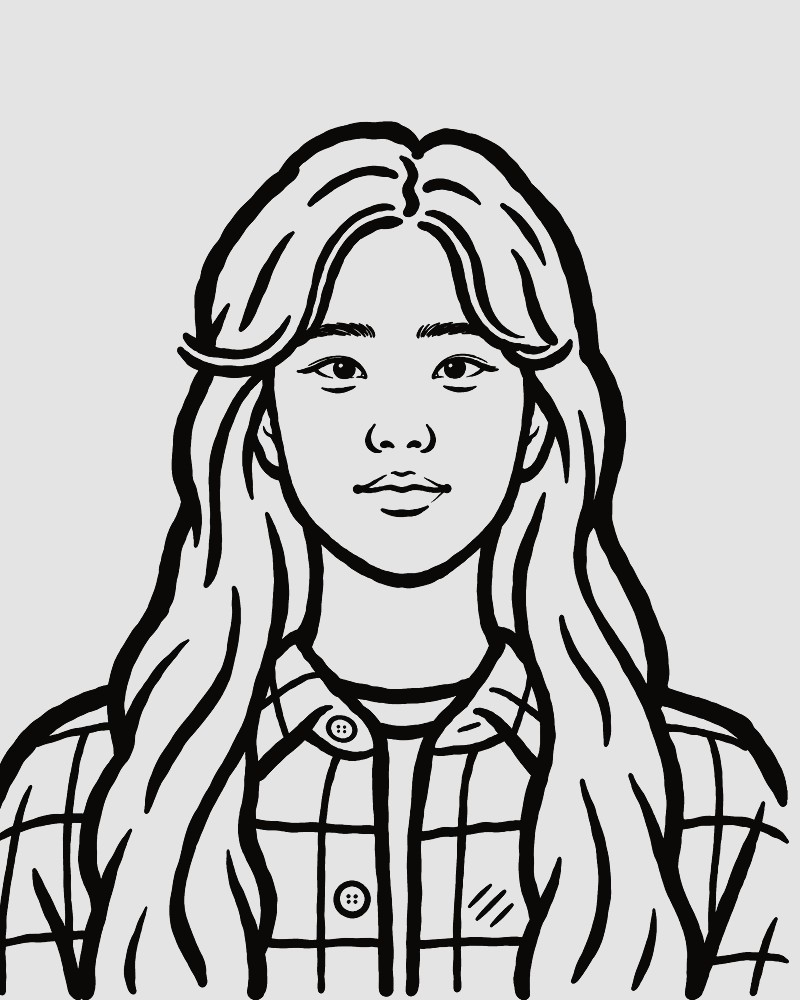
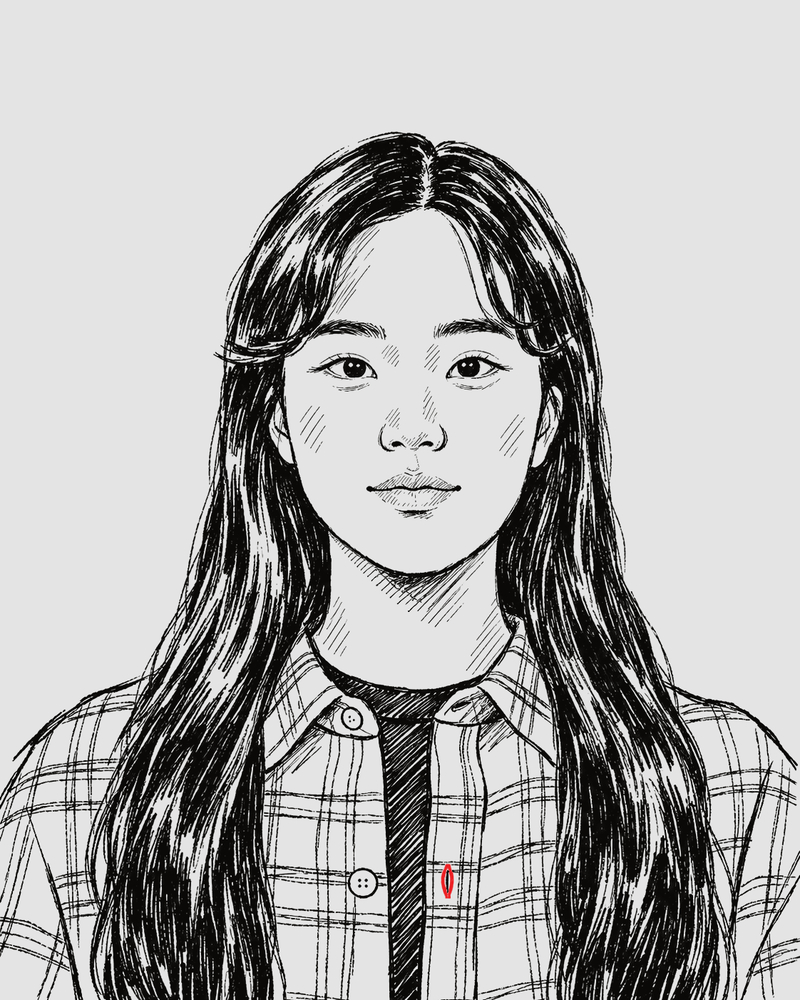
Revert "feat(members): portraits as pen-and-ink line drawings"
This reverts commit ca13e187ffa0a8153afcae8aac285b62a9c8bac9.

diff --git a/src/features/members/components/MemberCrew.tsx b/src/features/members/components/MemberCrew.tsx
@@ -44,7 +44,7 @@ function Portrait({ m, sizes, className = "" }: { m: CrewMember; sizes: string; 
       {m.portrait ? (
         // Loaded with the page, not lazily: in Safari a lazily loaded portrait could vanish after a
         // reload, while the page's arrival fade was running on an ancestor.
-        <Image src={m.portrait} alt={m.name} fill sizes={sizes} loading="eager" style={INKED} className="rounded-none object-cover" />
+        <Image src={m.portrait} alt={m.name} fill sizes={sizes} loading="eager" className="rounded-none object-cover" />
       ) : (
         <Image src={PLACEHOLDER} alt="" fill unoptimized loading="lazy" style={INKED} className="rounded-none object-contain" />
       )}
